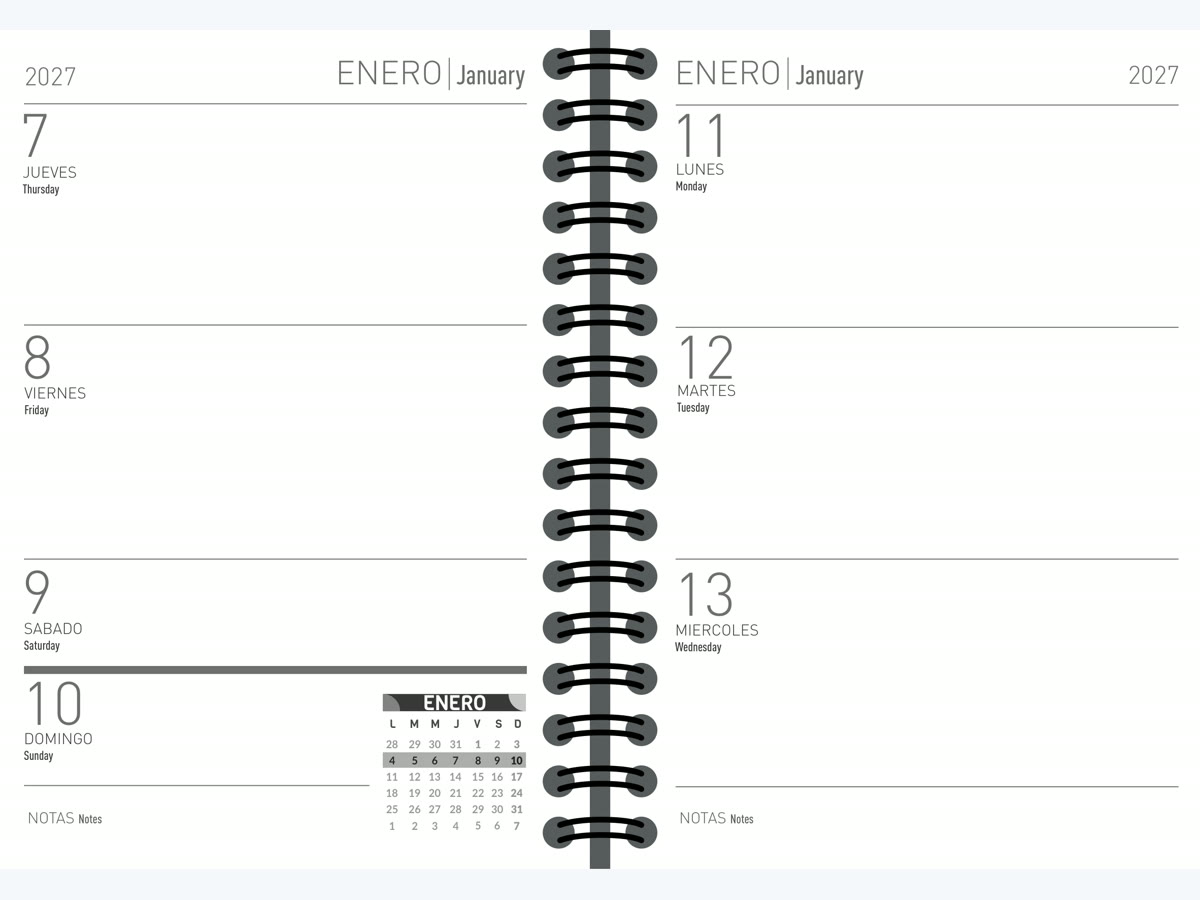
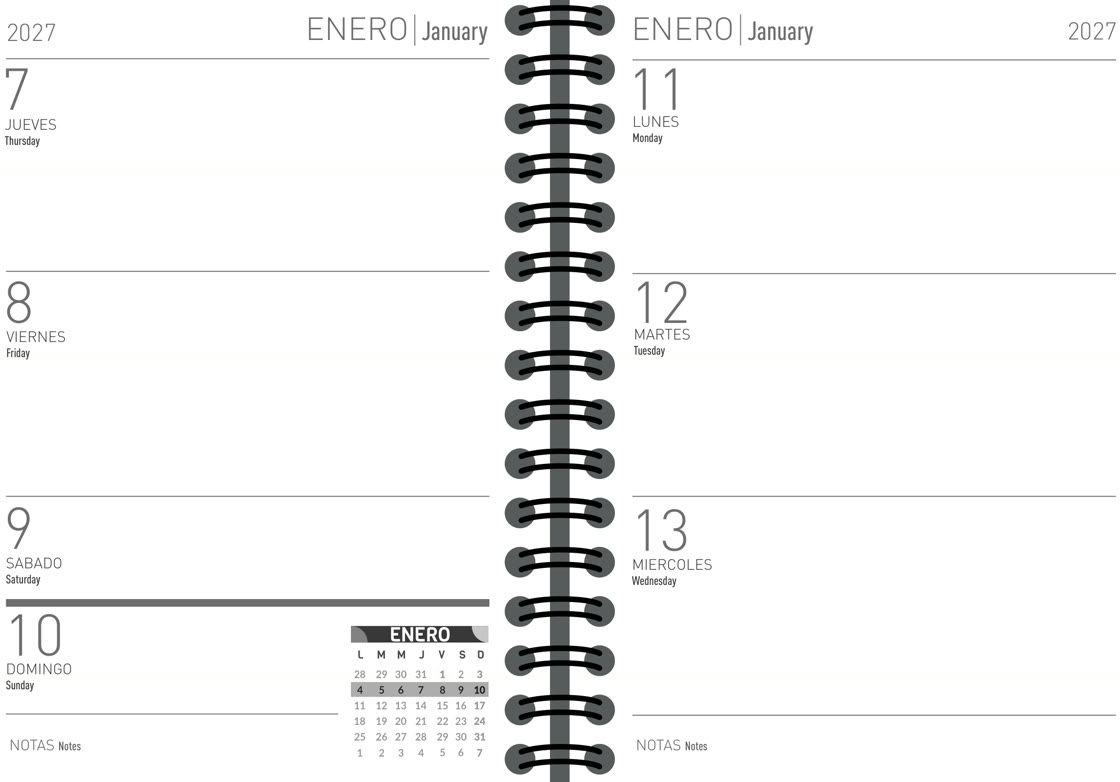
Copicyn preview Cuadernos: rediseno sobre navy para que las hojas blancas luzcan
- Hero navy (gradiente de marca) con las dos muestras flotando y etiquetadas,
  en vez del combo plano sobre fondo claro donde se perdian.
- Paneles de producto en navy: la hoja blanca va contenida con sombra y marco,
  asi contrasta y se ve premium. Mantiene la estetica Copicyn.
- Se elimina hero-cuadernos.jpg (combo viejo).

diff --git a/clientes/copicyn/preview/cuadernos-agendas/index.html b/clientes/copicyn/preview/cuadernos-agendas/index.html
@@ -90,18 +90,22 @@ header{position:sticky;top:0;z-index:50;background:rgba(255,255,255,.88);backdro
 /* SIN FOTO: fondo de marca. Cuando lleguen las fotos, reemplazar el background
    por: url('assets/hero-cuadernos.jpg') center/cover no-repeat; + filter:blur(8px);opacity:.9;transform:scale(1.12) */
 .hero-bg{position:absolute;inset:0;z-index:0;background:
-  radial-gradient(circle at 18% 18%,rgba(107,187,224,.34),transparent 55%),
-  radial-gradient(circle at 82% 26%,rgba(68,163,155,.28),transparent 52%),
-  linear-gradient(160deg,#f7f9fc 0%,#e6edf7 100%)}
-.hero-veil{position:absolute;inset:0;z-index:0;background:linear-gradient(180deg,rgba(244,247,251,.3),rgba(255,255,255,.46))}
+  radial-gradient(circle at 16% 12%,rgba(107,187,224,.34),transparent 55%),
+  radial-gradient(circle at 86% 28%,rgba(68,163,155,.30),transparent 52%),
+  linear-gradient(160deg,var(--navy) 0%,var(--blue) 100%)}
+.hero-veil{position:absolute;inset:0;z-index:0;background:linear-gradient(180deg,rgba(13,11,42,.10),rgba(13,11,42,.32))}
 .hero .wrap{position:relative;z-index:1}
-.hero h1{font-weight:800;font-size:clamp(2.2rem,6vw,4.1rem);line-height:1.04;letter-spacing:-.02em;color:var(--navy);margin:.5rem auto 1.1rem;max-width:15ch;text-transform:uppercase}
-.hero .sub{font-size:1.22rem;color:var(--muted);max-width:56ch;margin:0 auto 2rem}
-.hero .sub b{color:var(--blue)}
+.hero h1{font-weight:800;font-size:clamp(2.2rem,6vw,4.1rem);line-height:1.04;letter-spacing:-.02em;color:#fff;margin:.5rem auto 1.1rem;max-width:15ch;text-transform:uppercase}
+.hero .sub{font-size:1.22rem;color:rgba(255,255,255,.82);max-width:56ch;margin:0 auto 2rem}
+.hero .sub b{color:var(--teal2)}
+.hero .kicker{color:var(--teal2)}
+.hero .btn-ghost{color:#fff;border-color:rgba(255,255,255,.38)}
+.hero .btn-ghost:hover{border-color:var(--teal2);background:rgba(255,255,255,.06)}
 .hero-cta{display:flex;gap:.9rem;justify-content:center;flex-wrap:wrap}
-.hero-photo{position:relative;z-index:1;margin:56px auto 0;max-width:760px;border-radius:26px;overflow:hidden;box-shadow:0 30px 70px rgba(33,30,94,.18);border:1px solid var(--line)}
-.hero-photo img{width:100%;height:auto}
-.hero-photo.ph-frame{aspect-ratio:16/9}
+.hero-photo{position:relative;z-index:1;margin:52px auto 0;max-width:900px;display:flex;gap:24px;justify-content:center;align-items:flex-start}
+.hero-photo figure{flex:1;min-width:0;margin:0}
+.hero-photo img{display:block;width:100%;height:auto;border-radius:12px;background:#fff;box-shadow:0 22px 48px rgba(0,0,0,.36);border:1px solid rgba(255,255,255,.14)}
+.hero-photo figcaption{margin-top:.8rem;text-align:center;font-family:'Poppins';font-weight:600;font-size:.76rem;letter-spacing:.1em;text-transform:uppercase;color:rgba(255,255,255,.74)}
 
 /* placeholder de foto: reemplazar por <img> cuando lleguen las fotos reales */
 .ph-empty{position:absolute;inset:0;display:flex;flex-direction:column;align-items:center;justify-content:center;gap:.55rem;text-align:center;padding:16px;color:#8fa2bf;
@@ -121,9 +125,8 @@ section.blk{padding:88px 0}
 /* producto: bloque split (media + ficha), un bloque por producto */
 .prod{display:grid;grid-template-columns:1fr 1fr;gap:52px;align-items:center}
 .prod.rev .prod-media{order:2}
-.prod-media{position:relative;border-radius:24px;overflow:hidden;aspect-ratio:4/3;border:1px solid var(--line);box-shadow:0 26px 60px rgba(33,30,94,.14);background:var(--mist)}
-.prod-media img{position:absolute;inset:0;width:100%;height:100%;object-fit:cover;opacity:0;transition:opacity 1.1s ease}
-.prod-media img.is-on{opacity:1}
+.prod-media{position:relative;border-radius:24px;aspect-ratio:4/3;border:1px solid rgba(255,255,255,.1);box-shadow:0 26px 60px rgba(33,30,94,.20);background:linear-gradient(150deg,var(--navy),var(--blue));display:flex;align-items:center;justify-content:center;padding:30px}
+.prod-media img{max-width:100%;max-height:100%;width:auto;height:auto;border-radius:10px;background:#fff;box-shadow:0 16px 36px rgba(0,0,0,.42);opacity:1}
 .prod-info .kicker{margin-bottom:.5rem;display:block}
 .prod-info h2{font-weight:800;font-size:clamp(1.7rem,3.8vw,2.5rem);color:var(--navy);text-transform:uppercase;letter-spacing:-.01em;margin-bottom:.6rem}
 .prod-info h2::after{content:"";display:block;width:56px;height:4px;border-radius:3px;background:linear-gradient(90deg,var(--teal),var(--mid2));margin:14px 0 18px}
@@ -229,7 +232,7 @@ footer{background:var(--navy);color:#cdd6ee;padding:56px 0 30px}
   .hero .sub{font-size:1.02rem;margin-bottom:1.5rem}
   .hero-cta{flex-direction:column}
   .hero-cta .btn{width:100%;justify-content:center;text-align:center}
-  .hero-photo{margin-top:34px;border-radius:16px}
+  .hero-photo{margin-top:30px;flex-direction:column;gap:20px;max-width:420px}
   .head{margin-bottom:30px}
   .head h2{font-size:1.65rem}
   .head p{font-size:1rem}
@@ -283,10 +286,9 @@ footer{background:var(--navy);color:#cdd6ee;padding:56px 0 30px}
       <a class="btn btn-wa" href="https://wa.me/5491138311287" target="_blank"><svg><use href="#wa"/></svg> Pedí tu presupuesto</a>
       <a class="btn btn-ghost" href="#cuadernos">Ver los productos ↓</a>
     </div>
-    <!-- FOTO HERO: reemplazar el div .ph-empty por
-         <img src="assets/hero-cuadernos.jpg" alt="Cuadernos y agendas con tu marca impresos por Copicyn"> -->
     <div class="hero-photo">
-      <img src="assets/hero-cuadernos.jpg" alt="Cuaderno rayado y agenda con vista semanal, ambos con tu marca, impresos por Copicyn">
+      <figure><img src="assets/cuaderno.jpg" alt="Cuaderno rayado anillado con espacio para tu logo"><figcaption>Cuaderno rayado</figcaption></figure>
+      <figure><img src="assets/agenda.jpg" alt="Agenda con vista semanal, los siete días al abrir"><figcaption>Agenda semanal</figcaption></figure>
     </div>
   </div>
 </section>
